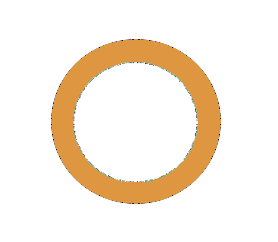
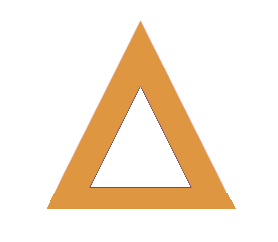
Added new database legends etc.

Changed region(s): [[0.1727, 0.0868, 0.8633, 0.8678]]

diff --git a/NetExplorer/templates/NetExplorer/netexplorer.html b/NetExplorer/templates/NetExplorer/netexplorer.html
@@ -707,7 +707,6 @@
         <script src="{% static 'js/bootstrap-slider.js' %}"></script>
         <script src="{% static 'js/dagre.js' %}"></script>
         <script src="{% static 'js/cytoscape-dagre.js' %}"></script>
-        <script src="{% static 'js/cytoscape-cola.js' %}"></script>
         <script src="{% static 'js/cytoscape-cola-min.js' %}"></script>
         <script src="{% static 'js/FileSaver.js' %}"></script>
         <script src="{% static 'js/bootstrap-switch.min.js' %}"></script>

diff --git a/NetExplorer/static/js/netexplorer-cytoscape-definition.js b/NetExplorer/static/js/netexplorer-cytoscape-definition.js
@@ -95,6 +95,12 @@ var stylesheet = cytoscape.stylesheet()
             'border-color': "#de9640",
 
         })
+    .selector('node[database = "Smedgd"]')
+        .css({
+            'shape': 'triangle',
+            'border-color': "#e4857b",
+
+        })
     .selector('node[database = "Adamidi"]')
         .css({
             'shape': 'circle',

diff --git a/NetExplorer/models/common.py b/NetExplorer/models/common.py
@@ -27,6 +27,7 @@ DATABASES = set([
     "Graveley",
     "Illuminaplus",
     "Smed454",
+    "Smedgd",
     "Adamidi",
     "Blythe",
     "Pearson",
@@ -41,6 +42,7 @@ ALL_DATABASES = set([
     "Smest",
     "Illuminaplus",
     "Smed454",
+    "Smedgd",
     "Adamidi",
     "Blythe",
     "Pearson",
